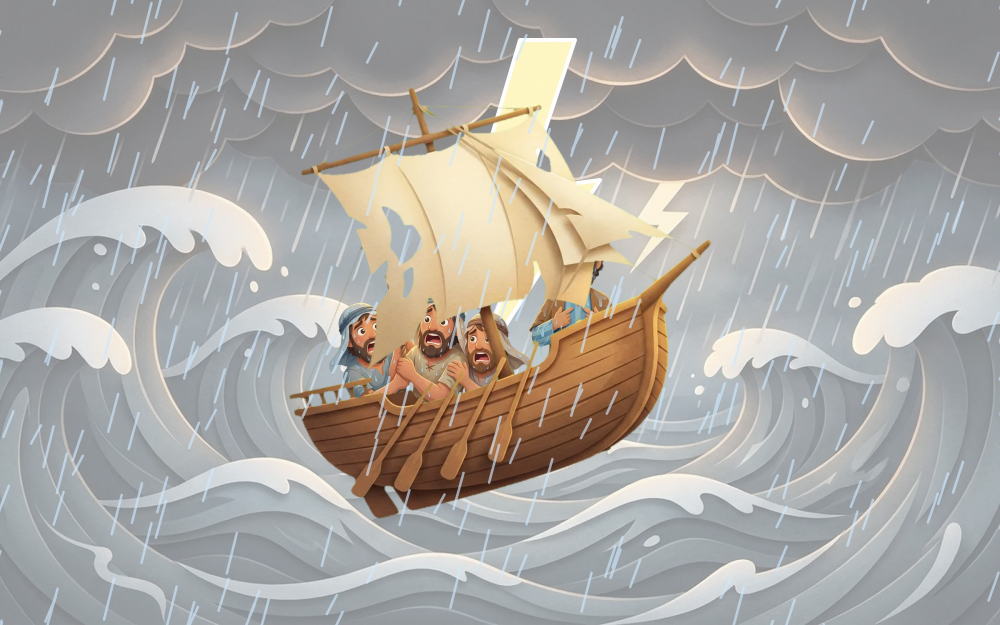
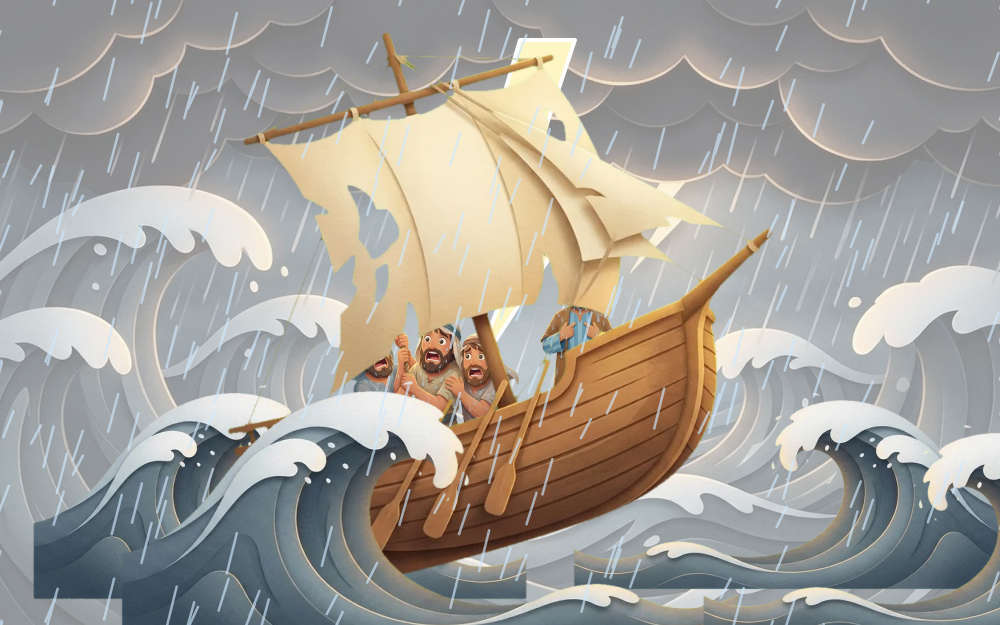
Jonah review round: harbour rebuilt, heaving storm, swallowing beat, sea life
The harbour background is regenerated with a quay across the whole
foreground so everyone stands on stone; the ship sits on the water at
0.62 and the sailors match Jonah's height. The storm gets four wave layers
on a new heave animation, with the ship in the same heave group as the near
swell so it rides the water, and the crew scaled to the hull. In the
swallowed scene Jonah is drawn in the fish's mouth and a one-shot drift
replays him sinking into it, with a turtle, a fish school, a jellyfish and
rising bubbles around. The Nineveh crowd is scaled to Jonah.

diff --git a/src/scenes/jonah.tsx b/src/scenes/jonah.tsx
@@ -1,4 +1,5 @@
 import { HolyGlow, Lightning, Rain, Sparkle } from "../art/base";
+import { rand } from "../art/palette";
 import { Grain, SoftShadow } from "../art/v2/effects";
 import { Backdrop, Eyelids, Layer } from "../art/raster";
 import runLayers from "../assets/scenes/jonah/running/layers.json";
@@ -11,10 +12,14 @@ import stormBg from "../assets/scenes/jonah/storm/bg.webp";
 import stormShip from "../assets/scenes/jonah/storm/ship-storm.webp";
 import stormSailors from "../assets/scenes/jonah/storm/sailors-afraid.webp";
 import stormJonah from "../assets/scenes/jonah/storm/jonah-point-self.webp";
+import stormWave from "../assets/scenes/jonah/storm/wave.webp";
 import swLayers from "../assets/scenes/jonah/swallowed/layers.json";
 import swBg from "../assets/scenes/jonah/swallowed/bg.webp";
 import swFish from "../assets/scenes/jonah/swallowed/great-fish.webp";
 import swJonah from "../assets/scenes/jonah/swallowed/jonah-fall.webp";
+import swTurtle from "../assets/scenes/jonah/swallowed/turtle.webp";
+import swSchool from "../assets/scenes/jonah/swallowed/fish-school.webp";
+import swJelly from "../assets/scenes/jonah/swallowed/jellyfish.webp";
 import prayLayers from "../assets/scenes/jonah/prayer/layers.json";
 import prayBg from "../assets/scenes/jonah/prayer/bg.webp";
 import prayJonah from "../assets/scenes/jonah/prayer/jonah-pray.webp";
@@ -55,20 +60,21 @@ export function RunningAway({ found }: SceneArtProps) {
   return (
     <>
       <Backdrop src={runBg} />
-      <g transform="translate(720 470)">
+      {/* the ship rides at the quay's edge, on the water */}
+      <g transform="translate(840 570)">
         <g className="a-rock">
-          <image href={runShip} x={-L.ship.w * 0.2} y={-L.ship.h * 0.4} width={L.ship.w * 0.4} height={L.ship.h * 0.4} />
+          <image href={runShip} x={-L.ship.w * 0.31} y={-L.ship.h * 0.62} width={L.ship.w * 0.62} height={L.ship.h * 0.62} />
         </g>
       </g>
-      <SoftShadow x={560} y={598} rx={110} ry={12} opacity={0.4} />
-      <Layer src={runSailors} w={L.sailors.w} h={L.sailors.h} x={560} y={598} scale={0.32} className="a-breathe-slow">
+      <SoftShadow x={585} y={478} rx={130} ry={12} opacity={0.4} />
+      <Layer src={runSailors} w={L.sailors.w} h={L.sailors.h} x={585} y={478} scale={0.5} className="a-breathe-slow">
         <Eyelids {...EYES.sailors} w={L.sailors.w} h={L.sailors.h} delay={2.1} />
       </Layer>
-      <SoftShadow x={250} y={602} rx={90} ry={12} opacity={0.4} />
-      <Layer src={runJonah} w={L["jonah-walk"].w} h={L["jonah-walk"].h} x={250} y={602} scale={0.38} className="a-breathe">
+      <SoftShadow x={260} y={560} rx={100} ry={12} opacity={0.4} />
+      <Layer src={runJonah} w={L["jonah-walk"].w} h={L["jonah-walk"].h} x={260} y={560} scale={0.4} className="a-breathe">
         <Eyelids {...EYES.jonahWalk} w={L["jonah-walk"].w} h={L["jonah-walk"].h} />
       </Layer>
-      {found.includes("ship") && <Sparkle x={720} y={300} s={1.6} />}
+      {found.includes("ship") && <Sparkle x={840} y={300} s={1.6} />}
       <Grain opacity={0.05} />
     </>
   );
@@ -77,28 +83,46 @@ export function RunningAway({ found }: SceneArtProps) {
 /** The sea would not calm until Jonah went over the side. */
 export function TheStorm() {
   const S = stormLayers.cutouts;
-  const sc = 0.34;
+  const sc = 0.3;
+  const shipS = 0.8;
+  const wave = (x: number, y: number, scale: number, cls: string, delay: number, flip = false) => (
+    <Layer src={stormWave} w={S.wave.w} h={S.wave.h} x={x} y={y} scale={scale} flip={flip} className={cls} delay={delay} />
+  );
   return (
     <>
       <Backdrop src={stormBg} />
       <Lightning delay={0.8} />
-      {/* sailors and Jonah ride inside the hull: drawn first so the ship covers their legs */}
-      <g transform="translate(430 445)">
-        <g className="a-shake">
-          <image href={stormSailors} x={-S["sailors-afraid"].w * sc * 0.5} y={-S["sailors-afraid"].h * sc} width={S["sailors-afraid"].w * sc} height={S["sailors-afraid"].h * sc} />
-          <g transform={`translate(${-S["sailors-afraid"].w * sc * 0.5} ${-S["sailors-afraid"].h * sc}) scale(${sc})`}>
-            <Eyelids {...EYES.sailorsAfraid} w={0} h={0} delay={1.3} />
+      {/* far swell behind the ship */}
+      {wave(280, 600, 0.6, "a-heave-slow", -2)}
+      {wave(800, 590, 0.55, "a-heave-slow", -5, true)}
+      {/* the ship rides the near swell: same heave class and delay as the wave in front of it */}
+      <g transform="translate(500 590)">
+        <g className="a-heave">
+          <g className="a-rock">
+            {/* crew inside the hull, drawn first so the gunwale covers their legs */}
+            <g transform="translate(-70 -140)">
+              <g className="a-shake">
+                <image href={stormSailors} x={-S["sailors-afraid"].w * sc * 0.5} y={-S["sailors-afraid"].h * sc} width={S["sailors-afraid"].w * sc} height={S["sailors-afraid"].h * sc} />
+                <g transform={`translate(${-S["sailors-afraid"].w * sc * 0.5} ${-S["sailors-afraid"].h * sc}) scale(${sc})`}>
+                  <Eyelids {...EYES.sailorsAfraid} w={0} h={0} delay={1.3} />
+                </g>
+              </g>
+            </g>
+            <g transform="translate(80 -150)">
+              <g className="a-breathe">
+                <image href={stormJonah} x={-S["jonah-point-self"].w * 0.13} y={-S["jonah-point-self"].h * 0.26} width={S["jonah-point-self"].w * 0.26} height={S["jonah-point-self"].h * 0.26} />
+                <g transform={`translate(${-S["jonah-point-self"].w * 0.13} ${-S["jonah-point-self"].h * 0.26}) scale(0.26)`}>
+                  <Eyelids {...EYES.jonahPointSelf} w={0} h={0} />
+                </g>
+              </g>
+            </g>
+            <image href={stormShip} x={-S["ship-storm"].w * shipS * 0.5} y={-S["ship-storm"].h * shipS} width={S["ship-storm"].w * shipS} height={S["ship-storm"].h * shipS} />
           </g>
         </g>
       </g>
-      <Layer src={stormJonah} w={S["jonah-point-self"].w} h={S["jonah-point-self"].h} x={578} y={452} scale={0.32} className="a-breathe">
-        <Eyelids {...EYES.jonahPointSelf} w={S["jonah-point-self"].w} h={S["jonah-point-self"].h} />
-      </Layer>
-      <g transform="translate(500 520)">
-        <g className="a-rock">
-          <image href={stormShip} x={-S["ship-storm"].w * 0.31} y={-S["ship-storm"].h * 0.62} width={S["ship-storm"].w * 0.62} height={S["ship-storm"].h * 0.62} />
-        </g>
-      </g>
+      {/* near swell in front, carrying the ship */}
+      {wave(430, 650, 0.75, "a-heave", 0)}
+      {wave(950, 640, 0.6, "a-heave", -1.4, true)}
       <Rain count={100} seed={42} />
       <Grain opacity={0.05} />
     </>
@@ -108,24 +132,47 @@ export function TheStorm() {
 /** Down, and swallowed whole. */
 export function SwallowedWhole() {
   const L = swLayers.cutouts;
+  const fishS = 0.55;
+  // the fish's mouth in viewBox units: its image's left edge sits at 660 - w*fishS/2
+  const mouthX = 660 - L["great-fish"].w * fishS * 0.5 + 70;
+  const bubbles = Array.from({ length: 14 }, (_, i) => {
+    const t = rand(11 + i);
+    return { x: 120 + t * 760, y: 380 + rand(40 + i) * 220, r: 3 + rand(70 + i) * 6, d: -t * 7 };
+  });
   return (
     <>
       <Backdrop src={swBg} />
-      <g transform="translate(340 380)">
-        <g className="a-float">
-          <image href={swJonah} x={-L["jonah-fall"].w * 0.15} y={-L["jonah-fall"].h * 0.15} width={L["jonah-fall"].w * 0.3} height={L["jonah-fall"].h * 0.3} />
-          <g transform={`translate(${-L["jonah-fall"].w * 0.15} ${-L["jonah-fall"].h * 0.15}) scale(0.3)`}>
+      {/* other sea life, each on its own drift */}
+      <Layer src={swTurtle} w={L.turtle.w} h={L.turtle.h} x={200} y={300} scale={0.36} className="a-swim-slow" delay={-3} />
+      <Layer src={swSchool} w={L["fish-school"].w} h={L["fish-school"].h} x={800} y={230} scale={0.4} className="a-swim" delay={-1} />
+      <Layer src={swJelly} w={L.jellyfish.w} h={L.jellyfish.h} x={900} y={470} scale={0.42} className="a-float" delay={-2} />
+      {/* Jonah is drawn at the mouth; the beat replays his drift down into it */}
+      <g transform={`translate(${mouthX} 470)`}>
+        <g className="a-swallow">
+          <image href={swJonah} x={-L["jonah-fall"].w * 0.14} y={-L["jonah-fall"].h * 0.14} width={L["jonah-fall"].w * 0.28} height={L["jonah-fall"].h * 0.28} />
+          <g transform={`translate(${-L["jonah-fall"].w * 0.14} ${-L["jonah-fall"].h * 0.14}) scale(0.28)`}>
             <Eyelids {...EYES.jonahFall} w={0} h={0} />
           </g>
         </g>
       </g>
       <g transform="translate(660 500)">
         <g className="a-swim-slow">
-          <image href={swFish} x={-L["great-fish"].w * 0.275} y={-L["great-fish"].h * 0.275} width={L["great-fish"].w * 0.55} height={L["great-fish"].h * 0.55} />
-          <g transform={`translate(${-L["great-fish"].w * 0.275} ${-L["great-fish"].h * 0.275}) scale(0.55)`}>
+          <image href={swFish} x={-L["great-fish"].w * fishS * 0.5} y={-L["great-fish"].h * fishS * 0.5} width={L["great-fish"].w * fishS} height={L["great-fish"].h * fishS} />
+          <g transform={`translate(${-L["great-fish"].w * fishS * 0.5} ${-L["great-fish"].h * fishS * 0.5}) scale(${fishS})`}>
             <Eyelids {...EYES.greatFish} w={0} h={0} delay={2.8} />
           </g>
         </g>
+      </g>
+      {/* bubbles rise from the depths; each is drawn where it starts */}
+      <g pointerEvents="none">
+        {bubbles.map((b, i) => (
+          <g key={i} transform={`translate(${b.x.toFixed(1)} ${b.y.toFixed(1)})`}>
+            <g className="a-bubble" style={{ animationDelay: `${b.d.toFixed(2)}s` }}>
+              <circle r={b.r.toFixed(1)} fill="none" stroke="#e6f6ff" strokeWidth="1.5" opacity="0.7" />
+              <circle r={(b.r * 0.3).toFixed(1)} cx={(-b.r * 0.35).toFixed(1)} cy={(-b.r * 0.35).toFixed(1)} fill="#ffffff" opacity="0.6" />
+            </g>
+          </g>
+        ))}
       </g>
       <Grain opacity={0.05} />
     </>
@@ -163,8 +210,8 @@ export function Nineveh({ found }: SceneArtProps) {
   return (
     <>
       <Backdrop src={ninBg} />
-      <SoftShadow x={640} y={606} rx={160} ry={14} opacity={0.4} />
-      <Layer src={ninCrowd} w={L["crowd-listen"].w} h={L["crowd-listen"].h} x={640} y={606} scale={0.38} className="a-breathe-slow">
+      <SoftShadow x={660} y={608} rx={200} ry={16} opacity={0.4} />
+      <Layer src={ninCrowd} w={L["crowd-listen"].w} h={L["crowd-listen"].h} x={660} y={608} scale={0.48} className="a-breathe-slow">
         <Eyelids {...EYES.crowd} w={L["crowd-listen"].w} h={L["crowd-listen"].h} delay={1.7} />
       </Layer>
       <SoftShadow x={300} y={602} rx={90} ry={12} opacity={0.4} />

diff --git a/src/styles/motion.css b/src/styles/motion.css
@@ -518,6 +518,63 @@ svg [class*=" a-"] {
 }
 
 /*
+ * Heaving sea. A wave layer rises, tilts and slides a little; the boat sits
+ * inside a group with the same class and delay, so it rides the swell rather
+ * than bobbing on its own. Rest state is the drawn position.
+ */
+@keyframes heave {
+  0%,
+  100% {
+    transform: translate(0, 0) rotate(0deg);
+  }
+  30% {
+    transform: translate(-22px, -26px) rotate(-2.5deg);
+  }
+  65% {
+    transform: translate(18px, 14px) rotate(2deg);
+  }
+}
+.a-heave {
+  animation: heave 5.5s ease-in-out infinite;
+  transform-origin: 50% 100%;
+}
+.a-heave-slow {
+  animation: heave 8s ease-in-out infinite;
+  transform-origin: 50% 100%;
+}
+
+/*
+ * Jonah drifts down into the great fish's mouth, once. He is drawn at the
+ * mouth (the rest state) and the animation replays the drift from up-left.
+ */
+@keyframes swallow {
+  from {
+    transform: translate(-260px, -170px) rotate(-25deg);
+  }
+  to {
+    transform: translate(0, 0) rotate(0deg);
+  }
+}
+.a-swallow {
+  animation: swallow 6s cubic-bezier(0.4, 0, 0.7, 1) both;
+}
+
+/* Bubbles rise and fade; each is drawn where it starts so Calm mode keeps it there. */
+@keyframes bubble {
+  0% {
+    transform: translateY(0) scale(0.7);
+    opacity: 0.75;
+  }
+  100% {
+    transform: translateY(-320px) scale(1.2);
+    opacity: 0;
+  }
+}
+.a-bubble {
+  animation: bubble 7s linear infinite;
+}
+
+/*
  * Eyelids. Drawn with opacity="0" so eyes rest open; the lid only appears for
  * a moment near the end of each cycle. Calm mode drops the animation and the
  * attribute value keeps the eyes open.

diff --git a/src/data/stories/jonah.ts b/src/data/stories/jonah.ts
@@ -28,9 +28,9 @@ export const jonah: Story = {
       hotspots: [
         {
           id: "ship",
-          x: 72,
-          y: 58,
-          size: 26,
+          x: 82,
+          y: 62,
+          size: 28,
           label: "the ship",
           reward:
             "Nineveh was east. This ship is pointed west. Jonah knew exactly what he was doing.",
@@ -39,8 +39,8 @@ export const jonah: Story = {
         },
         {
           id: "jonah",
-          x: 25,
-          y: 72,
+          x: 26,
+          y: 66,
           size: 20,
           label: "Jonah",
           reward:
@@ -62,7 +62,7 @@ export const jonah: Story = {
         {
           id: "sailors",
           x: 43,
-          y: 60,
+          y: 50,
           size: 22,
           label: "the frightened sailors",
           reward:
@@ -95,7 +95,7 @@ export const jonah: Story = {
       hotspots: [
         {
           id: "bigfish",
-          x: 66,
+          x: 70,
           y: 78,
           size: 28,
           label: "the great fish",
@@ -175,9 +175,9 @@ export const jonah: Story = {
         },
         {
           id: "people",
-          x: 64,
-          y: 72,
-          size: 24,
+          x: 66,
+          y: 68,
+          size: 26,
           label: "the people listening",
           reward:
             "Jonah did not think they deserved a second chance. He had just had one himself.",

diff --git a/docs/evidence/2026-09-18-jonah-story-raster/cycles.md b/docs/evidence/2026-09-18-jonah-story-raster/cycles.md
@@ -8,3 +8,4 @@ Pass = characters match the Jonah sheet, scene reads as the same book, hotspots 
 | 00 | raw review | 16/16 accepted | raw-*.png | |
 | 01 | all five | running P, storm F, swallowed P, prayer P, nineveh P | lids-forced.png | storm: sailors' lids floated in the sky (eyelid group not scaled with the raw image), ship small, Jonah on the gunwale |
 | 02 | storm | P | storm-render.png, storm-lids-forced.png, story-sheet.png | sailors' lids in a scaled group, ship 0.62, Jonah inboard at (578,452) |
+| 03 | user review: running, storm, swallowed, nineveh | all P | story-sheet.png | harbour background regenerated with a full-width quay and realistic water; ship 0.62 on the water, sailors 0.5 on the stone beside Jonah 0.4; storm: four heaving wave layers, ship 0.8 inside the same heave as the near swell, crew 0.3 and Jonah 0.26 inside the hull; swallowed: Jonah drawn in the mouth with a one-shot drift into it, turtle, fish school, jellyfish, 14 rising bubbles; nineveh crowd 0.48 to match Jonah |
